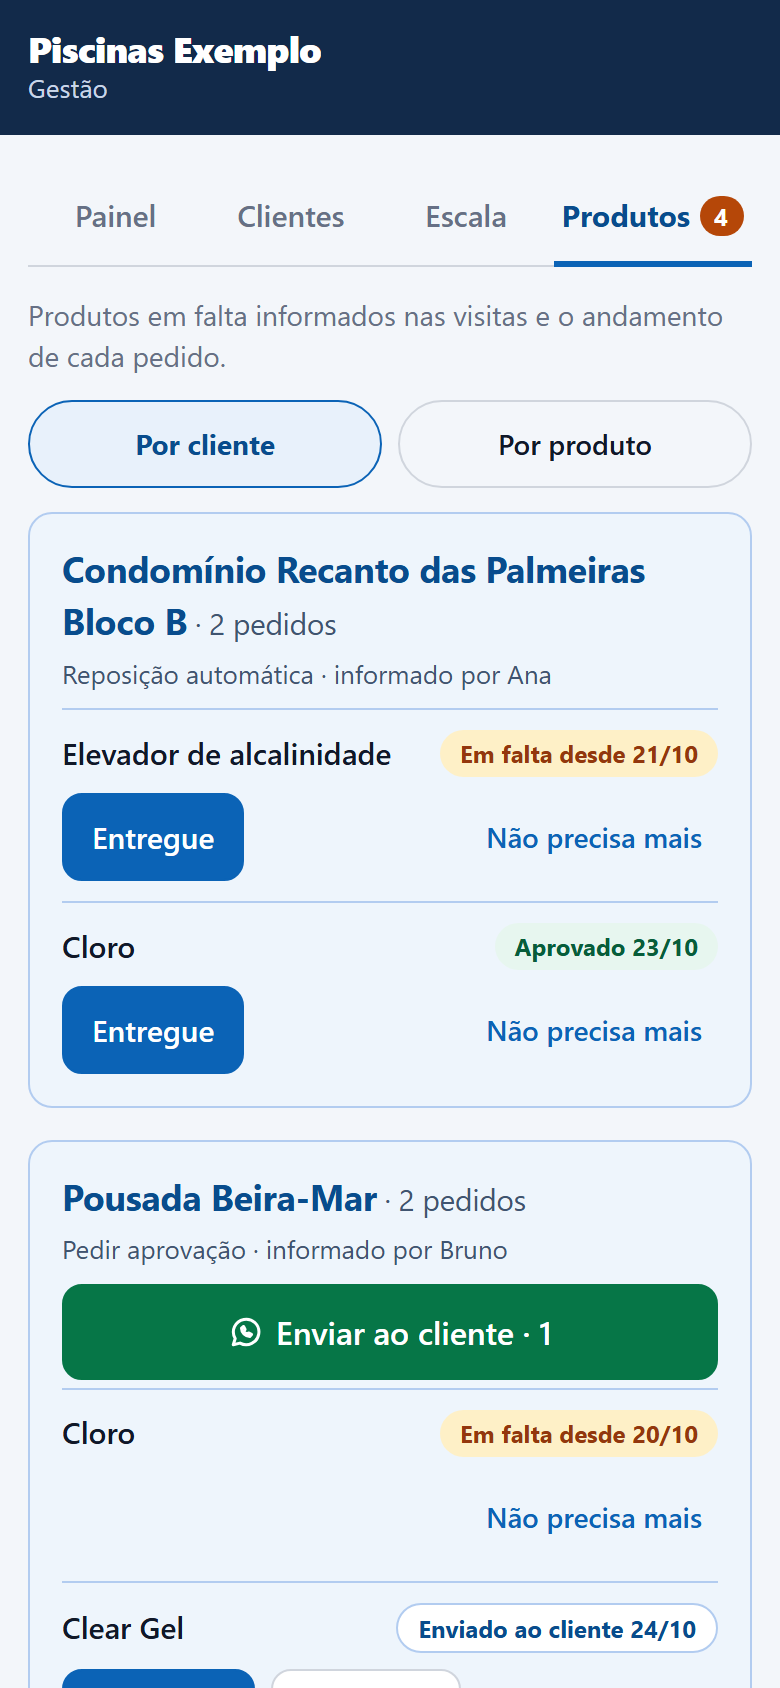
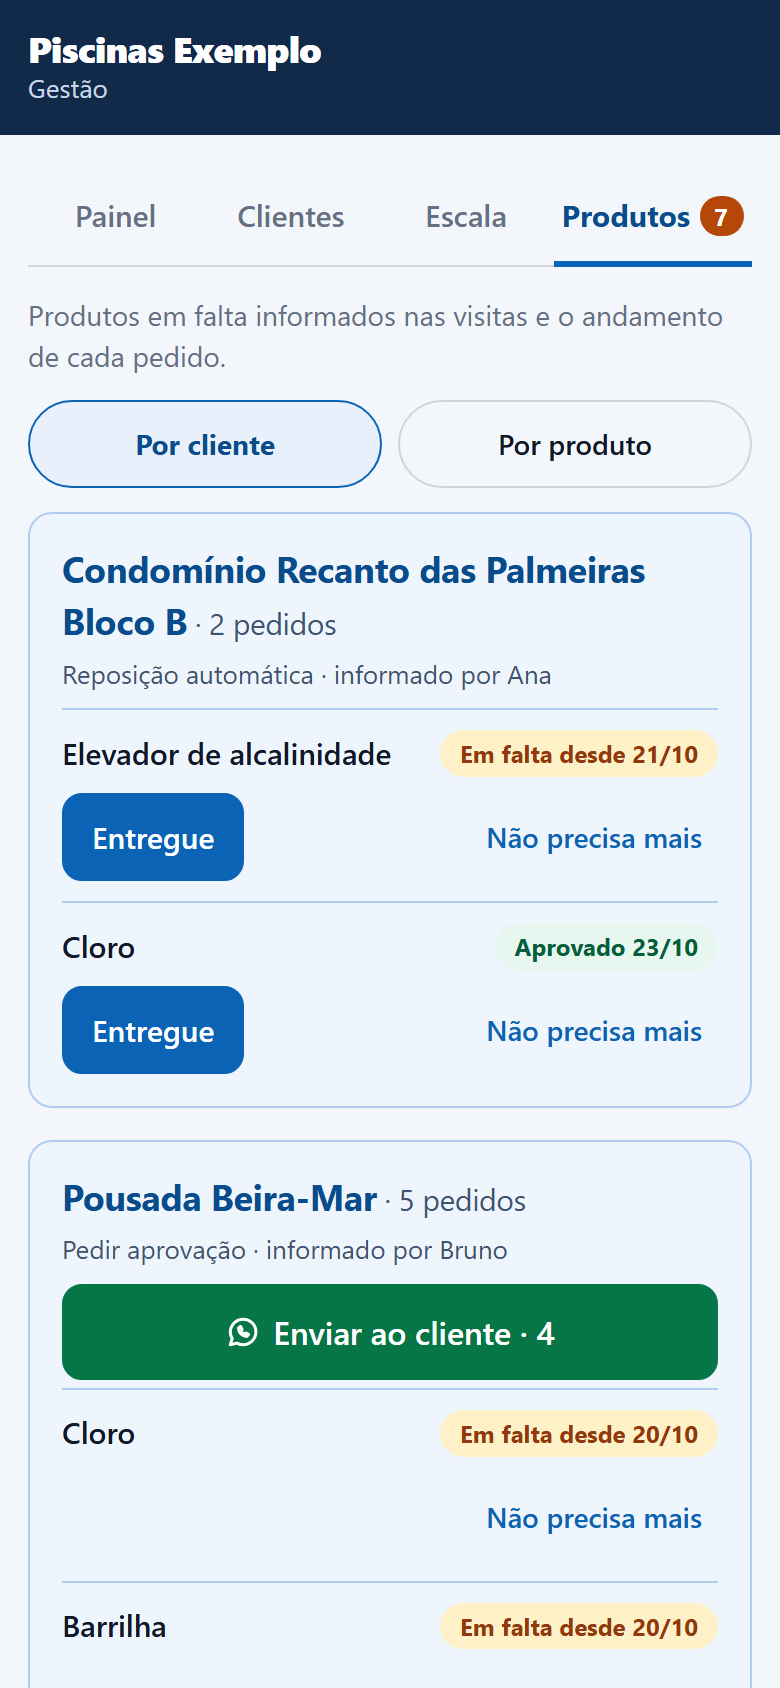
Manual da gerência: pré-orçamento com quantidade e preço

diff --git a/piscinas/manual-dono.html b/piscinas/manual-dono.html
@@ -164,12 +164,13 @@
       <p>O que o técnico marca como em falta vira um pedido, que você acompanha até a entrega. Veja <strong>por cliente</strong> ou <strong>por produto</strong>.</p>
       <ol class="passos">
         <li><strong>Em falta</strong>: o técnico informou na visita.</li>
-        <li><strong>Enviar ao cliente</strong> abre o seu WhatsApp com a lista pronta para pedir aprovação.</li>
+        <li><strong>Enviar ao cliente</strong> abre o <strong>pré-orçamento</strong>: ajuste a quantidade de cada item com <strong>– / +</strong>, confira o preço e o total e toque em <strong>Enviar pelo WhatsApp</strong>. A mensagem sai com o preço de cada item e o total estimado.</li>
         <li><strong>Aprovado</strong> ou <strong>Recusado</strong>, conforme a resposta.</li>
         <li><strong>Entregue</strong>, com quem levou.</li>
       </ol>
       <p>Cliente com <strong>reposição automática</strong> pula a aprovação. Se o produto deixou de ser preciso, use <strong>Não precisa mais</strong>. O que foi concluído fica na lista dos últimos 14 dias.</p>
-      <div class="telas"><figure class="tela"><img src="img/dono-produtos.png" alt="Guia Produtos com pedidos por cliente, etapas e o botão Enviar ao cliente" width="780" height="1688" loading="lazy"><figcaption>Pedidos por cliente com a próxima etapa.</figcaption></figure></div>
+      <p>O preço vem do catálogo de produtos. Produto sem preço aparece como <em>a combinar</em> e fica fora do total; preço com mais de 60 dias aparece com o aviso <em>confira</em>. Depois de enviado, o pedido guarda a quantidade e o valor.</p>
+      <div class="telas"><figure class="tela"><img src="img/dono-produtos.png" alt="Guia Produtos com pedidos por cliente, etapas e o botão Enviar ao cliente" width="780" height="1688" loading="lazy"><figcaption>Pedidos por cliente com a próxima etapa.</figcaption></figure><figure class="tela"><img src="img/dono-orcamento.png" alt="Janela de pré-orçamento com quantidade por item, preços, total estimado e o botão Enviar pelo WhatsApp" width="780" height="1688" loading="lazy"><figcaption>Pré-orçamento: quantidade, preço e total.</figcaption></figure></div>
     </div>
   </section>
 
